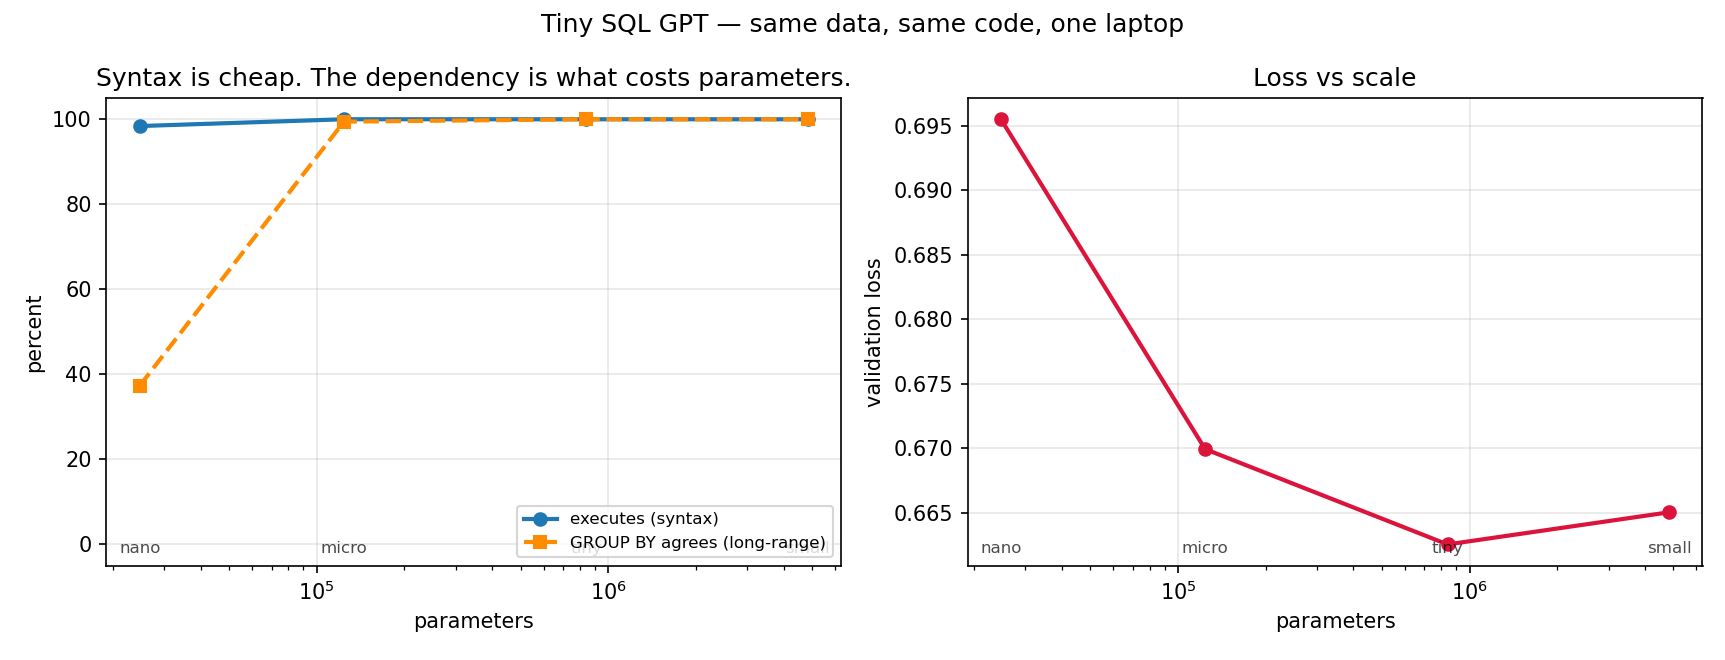
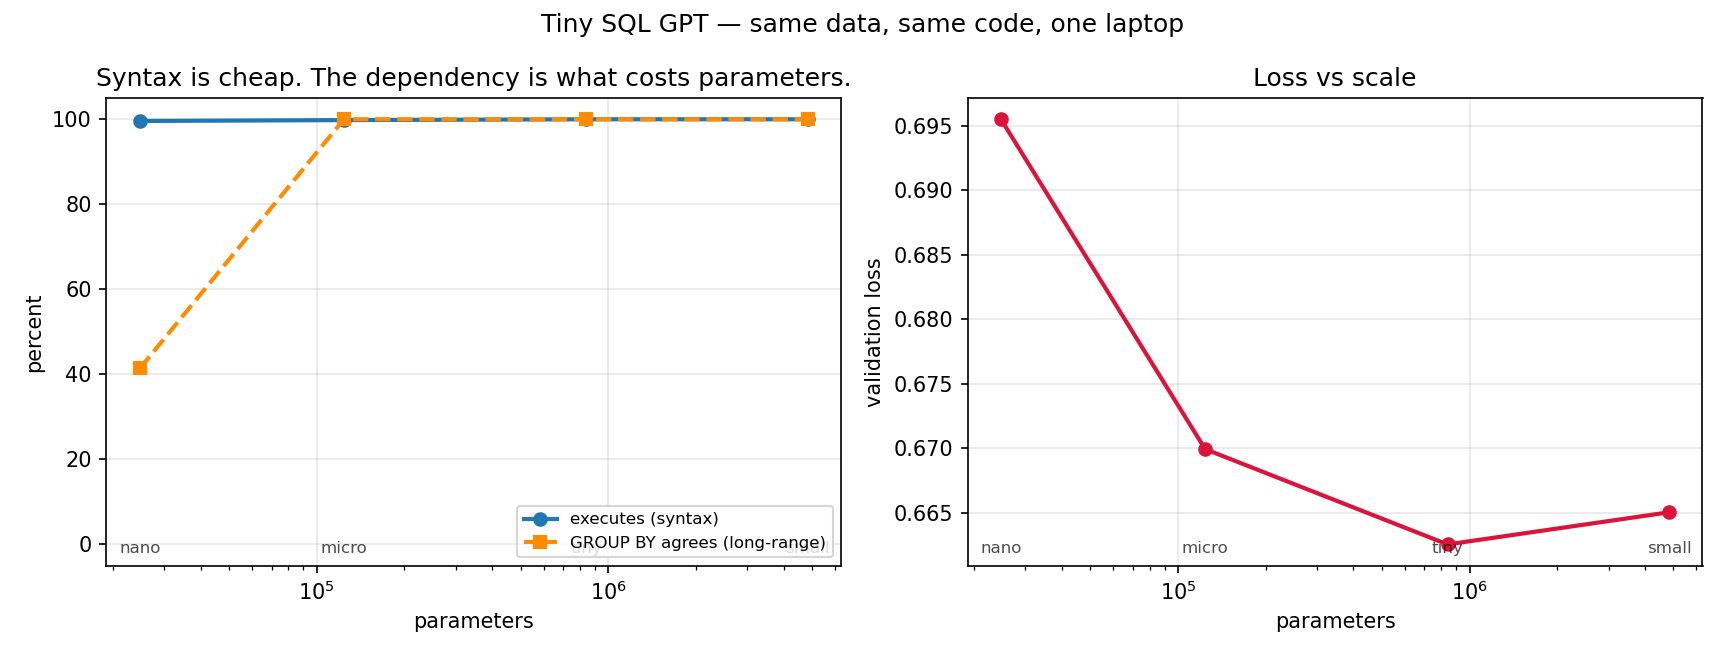
Seed the eval so every published number is reproducible
run_eval() now seeds torch before sampling. Generation is stochastic, so the
report was drifting run to run (bigram executable bounced 2.6-4.4% across
identical invocations). Two consecutive runs now produce byte-identical output.

Republished every number in README.md and POSTS.md against the seeded run:
  tiny   100.0% executable (bigram 4.4%), 100.0% GROUP BY agreement,
         13.4% novel, held-out 0/3 with copy lift 2.6x-13.9x
  nano    99.6% executable but only 41.4% GROUP BY agreement (~33% is chance)
  micro   99.8% / 100.0%   flat 100.0% / 100.0%

Also notes in the README that a 100% executable rate is a statement about the
narrowness of the grammar, not a text-to-SQL result.

diff --git a/evaluate.py b/evaluate.py
@@ -165,6 +165,7 @@ def heldout_probe(model, tok, device="cpu"):
 
 
 def run_eval(size="tiny", device="cpu", n=N_SAMPLES, quiet=False):
+    torch.manual_seed(T.SEED)   # sampling is stochastic; the report should not be
     ckpt = os.path.join(T.CKPT_DIR, f"{size}.pt")
     model, tok, _ = load_ckpt(ckpt, device)
     queries = load_queries()

diff --git a/README.md b/README.md
@@ -1,7 +1,7 @@
 # Tiny SQL GPT
 
 **A 841,216-parameter transformer, built from random weights, trained on a laptop CPU in 5 minutes.
-99.8% of the SQL it generates actually executes.**
+100% of the SQL it generates actually executes.**
 
 No pretrained weights. No HuggingFace model classes. No API keys. ~700 lines of Python you can read
 in one sitting.
@@ -18,17 +18,23 @@ SELECT status , SUM ( total ) FROM orders WHERE status = 'backorder' GROUP BY st
 ## Results
 
 Every number below is produced by `python evaluate.py --eval`, which generates 500 queries and
-runs them against a real SQLite database. Nothing is graded by eye.
+runs them against a real SQLite database. Nothing is graded by eye, and the run is seeded — you
+will get these exact numbers.
 
 | metric | TinyGPT (841K params) | bigram baseline |
 |---|---:|---:|
-| parses | **99.8%** | 2.8% |
-| **executes** | **99.8%** | 2.8% |
-| `GROUP BY` agrees with `SELECT` | **100.0%** | 4.8% |
-| novel (not in training set) | 11.8% | 99.0% |
-| validation loss | 0.661 | — |
+| parses | **100.0%** | 4.4% |
+| **executes** | **100.0%** | 4.4% |
+| `GROUP BY` agrees with `SELECT` | **100.0%** | 3.4% |
+| novel (not in training set) | 13.4% | 98.6% |
+| validation loss | 0.663 | — |
 
 The bigram baseline is there on purpose. A number without a baseline is decoration.
+
+100% is a real measurement, not a rounding flourish — but read it against the task. The grammar has
+14 query shapes over a 3-table schema and a 155-token vocabulary. A model that saturates *this* is
+not a text-to-SQL system; it's proof that the training loop works. The interesting number is the
+13.4% novelty, and the failure in the next section.
 
 ---
 
@@ -45,8 +51,8 @@ The same architecture at four sizes, same data, same code, all trained on one la
 
 | model | params | val loss | executes | **`GROUP BY` agrees** |
 |---|---:|---:|---:|---:|
-| nano | 24,736 | 0.696 | 98.4% | **37.3%** |
-| micro | 124,032 | 0.670 | 100.0% | **99.4%** |
+| nano | 24,736 | 0.696 | 99.6% | **41.4%** |
+| micro | 124,032 | 0.670 | 99.8% | **100.0%** |
 | tiny | 841,216 | 0.663 | 100.0% | 100.0% |
 | small | 4,834,816 | 0.665 | 100.0% | 100.0% |
 
@@ -54,13 +60,13 @@ The same architecture at four sizes, same data, same code, all trained on one la
 
 Three things fall out of this, and none of them is "bigger is better":
 
-**Syntax is nearly free.** `nano` — 24,736 parameters, one layer — writes SQL that executes 98.4%
+**Syntax is nearly free.** `nano` — 24,736 parameters, one layer — writes SQL that executes 99.6%
 of the time. Surface fluency is the cheapest thing a language model learns.
 
 **The long-range dependency is what costs parameters.** That same `nano` gets `GROUP BY` agreement
-right only 37.3% of the time — which is chance, since each table has three groupable columns. It
-learned what SQL *looks like* and nothing about the rule. Between 24K and 124K parameters it jumps
-to 99.4%. That is a phase transition you can watch happen on a laptop.
+right 41.4% of the time — barely above the ~33% you'd get by picking a groupable column at random.
+It learned what SQL *looks like* and almost nothing about the rule. Between 24K and 124K parameters
+it goes to 100%. That is a phase transition you can watch happen on a laptop.
 
 **Then it stops.** `small` has 200x the parameters of `nano` and is very slightly *worse* than
 `tiny` on validation loss. All four models converge to ~0.66, because ~0.66 is the entropy of the
@@ -80,9 +86,9 @@ So I trained `flat` — **one layer**, widened to match `micro`'s parameter coun
 
 | model | layers | params | `GROUP BY` agrees |
 |---|---:|---:|---:|
-| nano | 1 | 24,736 | 37.3% |
-| **flat** | **1** | **127,160** | **99.4%** |
-| micro | 2 | 124,032 | 99.4% |
+| nano | 1 | 24,736 | 41.4% |
+| **flat** | **1** | **127,160** | **100.0%** |
+| micro | 2 | 124,032 | 100.0% |
 
 **Identical.** At matched parameters, depth bought nothing — the hypothesis was wrong, and the
 nano→micro jump was capacity all along. Probing `flat`'s single layer finds head L0H1 at 55% on the
@@ -130,22 +136,22 @@ Three `(table, column)` pairs were **never** grouped during training — `orders
 So: did the model learn the *rule*, or the *pairs*?
 
 ```
-  [MISS] SELECT channel ... FROM orders GROUP BY -> carrier
-         p(channel)=0.0018  rank 6/155  |  control p=0.000462  ->  copy lift  3.9x
-  [MISS] SELECT product ... FROM sales    GROUP BY -> segment
-         p(product)=0.0006  rank 12/155  |  control p=0.000362  ->  copy lift  1.7x
+  [MISS] SELECT channel ... FROM orders    GROUP BY -> carrier
+         p(channel)=0.0012  rank 6/155  |  control p=0.000452  ->  copy lift   2.7x
+  [MISS] SELECT product ... FROM sales     GROUP BY -> segment
+         p(product)=0.0009  rank 8/155  |  control p=0.000352  ->  copy lift   2.6x
   [MISS] SELECT tier    ... FROM customers GROUP BY -> plan
-         p(tier)=0.0021    rank 4/155   |  control p=0.000262  ->  copy lift  7.9x
+         p(tier)=0.0039    rank 4/155  |  control p=0.000280  ->  copy lift  13.9x
 
-  0/3 correct on unseen pairs — mean copy lift 4.5x
+  0/3 correct on unseen pairs — mean copy lift 6.4x
 ```
 
 **0 out of 3.** But look closer before calling it a failure.
 
 *Copy lift* compares `p(col | SELECT col ... GROUP BY)` against a control prompt with a different
-`SELECT` column. Naming the column in `SELECT` raises its `GROUP BY` probability by **4.5x** — so
-the copy circuit found by L1H1 *is* firing. It just loses to a blanket prior against tokens that
-never appeared in that slot during training.
+`SELECT` column. Naming the column in `SELECT` raises its `GROUP BY` probability by **2.6x to
+13.9x** — so the copy circuit found by L1H1 *is* firing. It just loses to a blanket prior against
+tokens that never appeared in that slot during training.
 
 That is the whole story of hallucination, at 841K parameters:
 
